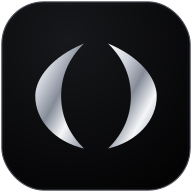
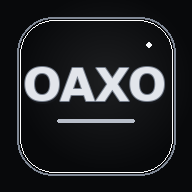
Add files via upload

diff --git a/index.html b/index.html
@@ -118,72 +118,12 @@
     ::selection{background:#bfc5cf;color:#111318}
     @media(prefers-reduced-motion:reduce){*,*:before,*:after{transition:none!important;scroll-behavior:auto!important}}
 
-  
-    /* OAXO brand system v3 — aligned to the supplied black/silver brand board */
-    :root{--bg:#050505;--card:#0d0e10;--text:#f4f5f7;--muted:#a6aab2;--line:#292b30;--brand:#c8ccd4;--brand2:#1b1d22;--silver:#bec2ca;--shadow:0 14px 36px #000b,inset 0 1px 0 #ffffff08}
-    body{background:radial-gradient(ellipse at 50% -20%,#282a2e 0%,#101113 35%,transparent 65%),#050505;background-attachment:fixed}
-    .oaxo-emblem{background:linear-gradient(145deg,#f7f8fa 0%,#c4c8d0 28%,#7d838e 52%,#eef0f4 74%,#9da3ad 100%)!important;border:1px solid #f1f2f4!important;box-shadow:0 0 0 1px #aeb3bc55,0 0 24px #cbd0dc18,inset 0 1px 0 #fff!important;border-radius:50%!important}
-    .oaxo-symbol{width:76%;height:76%;display:block;overflow:visible;fill:#111317;filter:drop-shadow(0 1px 1px #fff9)}
-    .auth-logo.oaxo-emblem{width:100px;height:100px;border-radius:28px!important;background:linear-gradient(145deg,#08090b,#111317)!important;border:1px solid #4b4f58!important;box-shadow:0 0 0 1px #ffffff08,0 0 35px #cbd0dc12,inset 0 1px 0 #ffffff0c!important}
-    .auth-logo .oaxo-symbol{fill:url(#oaxoSilver);filter:drop-shadow(0 0 5px #d9dce355)}
-    .auth-logo .oaxo-symbol path,.logo .oaxo-symbol path{fill:#17191d;stroke:#dfe2e8;stroke-width:1.1}
-    .logo.oaxo-emblem{width:49px;height:49px;border-radius:15px!important;background:linear-gradient(145deg,#111317,#050505)!important;border-color:#484c55!important}
-    .logo .oaxo-symbol{fill:#191b20}
-    .home-hero{background:radial-gradient(ellipse at 86% 18%,#c7ccd51c 0,transparent 42%),linear-gradient(115deg,#08090b 0%,#15171b 55%,#24272d 100%)!important;border:1px solid #555b66!important;color:#f5f6f8!important;box-shadow:inset 0 1px 0 #ffffff0c,0 16px 38px #0008!important}
-    .home-hero .home-eyebrow{color:#c6cbd4!important}.home-live-dot{background:#d9dde4!important;box-shadow:0 0 0 4px #d9dde41c!important}.home-hero h2 em{color:#d9dde4!important}.home-hero p{color:#b8bdc6!important}
-    .home-create,.btn.primary{background:linear-gradient(145deg,#e7e9ed,#aeb4bf 55%,#d9dce2)!important;color:#111317!important;border:1px solid #f4f5f7!important;box-shadow:0 5px 20px #d9dde411,inset 0 1px #fff!important}
-    .home-hero-orbit,.home-hero-orbit:before{border-color:#d7dbe31c!important;box-shadow:0 0 0 25px #d7dbe308,0 0 0 52px #d7dbe305!important}.home-hero-orbit:after{background:radial-gradient(circle at 35% 30%,#d7dbe322,transparent 65%)!important}.home-hero-orbit span{color:#d9dde4!important;text-shadow:0 0 32px #d9dde433!important}
-    .home-module{background:linear-gradient(145deg,#111317,#0b0c0e)!important;border-color:#30343b!important;box-shadow:inset 0 1px #ffffff06,0 7px 18px #0005!important}.home-module-icon,.home-module:nth-child(1) .home-module-icon,.home-module:nth-child(2) .home-module-icon,.home-module:nth-child(3) .home-module-icon{background:linear-gradient(145deg,#292d34,#17191e)!important;color:#d4d8df!important;border:1px solid #414650!important}
-    .home-feed-switch button.active,.tab.active{background:linear-gradient(145deg,#2b2e35,#191b20)!important;color:#f2f3f5!important;border-color:#aeb4bf!important}.card{background:linear-gradient(145deg,#111317,#0b0c0e)!important;border-color:#2d3037!important}
-    .mobile-social-nav{background:#090a0c!important;border-top-color:#333740!important}.mobile-social-nav button.active,.mobile-social-nav button.active small{color:#e0e3e9!important}
-    .auth-card{background:linear-gradient(145deg,#111317,#08090b)!important;border-color:#414650!important;box-shadow:0 24px 70px #000b,inset 0 1px #ffffff0a!important}
-    @media(prefers-reduced-motion:reduce){*{transition:none!important;animation:none!important}}
-
-
-    /* OAXO v4 — tela de inicialização inspirada na referência oficial */
-    #oaxoSplash{position:fixed;inset:0;z-index:99999;display:flex;align-items:center;justify-content:center;overflow:hidden;background:radial-gradient(ellipse at 50% 42%,#191a1d 0%,#0b0b0d 38%,#030304 78%);color:#f3f4f6;opacity:1;visibility:visible;transition:opacity .65s ease,visibility .65s ease}
-    #oaxoSplash::before{content:"";position:absolute;inset:0;background:linear-gradient(135deg,transparent 35%,#ffffff04 50%,transparent 65%);pointer-events:none}
-    #oaxoSplash::after{content:"";position:absolute;left:50%;bottom:-35vh;width:min(110vw,800px);height:45vh;transform:translateX(-50%) perspective(500px) rotateX(66deg);border-top:1px solid #cbd0da20;background:repeating-linear-gradient(0deg,transparent 0 34px,#cbd0da08 35px 36px),linear-gradient(180deg,#cbd0da08,transparent);mask-image:linear-gradient(to bottom,#000,transparent);pointer-events:none}
-    #oaxoSplash.is-hidden{opacity:0;visibility:hidden;pointer-events:none}
-    .oaxo-splash-content{position:relative;z-index:1;display:flex;align-items:center;flex-direction:column;text-align:center;width:min(88vw,460px);transform:translateY(-2vh);animation:oaxoSplashRise 1s cubic-bezier(.2,.75,.25,1) both}
-    .oaxo-splash-symbol{width:clamp(88px,24vw,132px);height:clamp(88px,24vw,132px);filter:drop-shadow(0 0 15px #dce2f022);animation:oaxoSymbolGlow 3s ease-in-out infinite}
-    .oaxo-splash-symbol path{fill:url(#oaxoSplashSilver)}
-    .oaxo-splash-wordmark{font-size:clamp(43px,12vw,66px);font-weight:300;letter-spacing:.19em;margin:19px 0 0  .19em;line-height:1.1;background:linear-gradient(180deg,#fff 0%,#d9dce2 42%,#8c929e 54%,#f5f6f8 74%,#bfc4cd 100%);-webkit-background-clip:text;background-clip:text;color:transparent;text-shadow:0 0 30px #dfe5f00b}
-    .oaxo-splash-tagline{font-size:clamp(9px,2.4vw,12px);font-weight:500;letter-spacing:.42em;color:#d0d3da;margin:18px 0 0 .42em;text-transform:uppercase;white-space:nowrap}
-    .oaxo-splash-progress{width:112px;height:2px;margin-top:46px;border-radius:99px;background:#ffffff18;overflow:hidden}
-    .oaxo-splash-progress span{display:block;width:38%;height:100%;border-radius:99px;background:linear-gradient(90deg,#7e8490,#fff,#aeb4bf);box-shadow:0 0 12px #e3e8f477;animation:oaxoProgress 1.55s ease-in-out infinite}
-    .oaxo-splash-caption{margin-top:13px;color:#777d88;font-size:9px;letter-spacing:.24em;text-transform:uppercase}
-    @keyframes oaxoSplashRise{from{opacity:0;transform:translateY(12px)}to{opacity:1;transform:translateY(-2vh)}}
-    @keyframes oaxoSymbolGlow{0%,100%{filter:drop-shadow(0 0 10px #dce2f018)}50%{filter:drop-shadow(0 0 22px #dce2f044)}}
-    @keyframes oaxoProgress{0%{transform:translateX(-120%)}100%{transform:translateX(380%)}}
-    @media(prefers-reduced-motion:reduce){#oaxoSplash,.oaxo-splash-content,.oaxo-splash-symbol,.oaxo-splash-progress span{animation:none!important;transition:none!important}}
-  
-/* OAXO v5: símbolo oficial em prata sobre preto, alinhado à referência fornecida */
-.logo.oaxo-emblem,.auth-logo.oaxo-emblem{background:linear-gradient(145deg,#141518,#030304)!important;border:1px solid #484c55!important;box-shadow:0 0 0 1px #ffffff08,inset 0 1px 0 #ffffff12,0 0 24px #d9dce315!important;border-radius:28%!important;}
-.oaxo-symbol{width:82%!important;height:82%!important;overflow:visible!important;filter:drop-shadow(0 0 3px #e7e9ef35)!important;}
-.oaxo-symbol path{fill:url(#oaxoSilver)!important;stroke:none!important;}
-.auth-logo.oaxo-emblem .oaxo-symbol{width:84%!important;height:84%!important;}
-</style>
+  </style>
 </head>
 <body>
-<div id="oaxoSplash" role="status" aria-label="Carregando OAXO">
-  <div class="oaxo-splash-content">
-    <svg class="oaxo-splash-symbol" viewBox="0 0 100 100" aria-hidden="true">
-      <defs><linearGradient id="oaxoSplashSilver" x1="0" y1="0" x2="0.85" y2="1"><stop offset="0%" stop-color="#ffffff"/><stop offset="35%" stop-color="#d9dce2"/><stop offset="55%" stop-color="#8f96a2"/><stop offset="75%" stop-color="#f4f5f7"/><stop offset="100%" stop-color="#aeb4bf"/></linearGradient></defs>
-      <path d="M43 13 C20 24 11 39 11 50 C11 65 23 80 43 87 C31 72 27 62 27 50 C27 38 32 26 43 13Z"/>
-      <path d="M57 13 C80 24 89 39 89 50 C89 65 77 80 57 87 C69 72 73 62 73 50 C73 38 68 26 57 13Z"/>
-    </svg>
-    <div class="oaxo-splash-wordmark">OAXO</div>
-    <div class="oaxo-splash-tagline">Sua vida, em evolução.</div>
-    <div class="oaxo-splash-progress" aria-hidden="true"><span></span></div>
-    <div class="oaxo-splash-caption">Preparando sua evolução</div>
-  </div>
-</div>
-<script> (function(){var splash=document.getElementById('oaxoSplash');function hideSplash(){if(!splash)return;window.setTimeout(function(){splash.classList.add('is-hidden');window.setTimeout(function(){if(splash&&splash.parentNode)splash.parentNode.removeChild(splash)},750)},1500)}if(document.readyState==='complete'){hideSplash()}else{window.addEventListener('load',hideSplash,{once:true});window.setTimeout(hideSplash,4500)}})(); </script>
-
 <section id="authGate" class="auth-gate checking" aria-label="Acesso ao OAXO">
   <div class="auth-card">
-    <div class="auth-logo oaxo-emblem" aria-label="Símbolo OAXO"><svg class="oaxo-symbol" viewBox="0 0 100 100" aria-hidden="true"><path d="M43 13 C20 24 11 39 11 50 C11 65 23 80 43 87 C31 72 27 62 27 50 C27 38 32 26 43 13Z"/><path d="M57 13 C80 24 89 39 89 50 C89 65 77 80 57 87 C69 72 73 62 73 50 C73 38 68 26 57 13Z"/></svg></div>
+    <div class="auth-logo oaxo-emblem" aria-label="OAXO">O<span>A</span>X<span>O</span></div>
     <h2>Bem-vindo ao OAXO</h2>
     <p class="muted">Entre com sua conta Google para acessar suas finanças, alimentação e treinos.</p>
     <div class="notice"><strong>Seus registros são sincronizados com sua conta.</strong><br>Os lançamentos são guardados neste aparelho e enviados ao Firebase para que você possa acessar em outros dispositivos. As regras de segurança restringem o acesso à sua conta Google.</div>
@@ -206,7 +146,7 @@
   </div>
 </div>
 <div class="wrap">
-  <header class="top"><div class="brand"><div class="logo oaxo-emblem" aria-label="Símbolo OAXO"><svg class="oaxo-symbol" viewBox="0 0 100 100" aria-hidden="true"><path d="M43 13 C20 24 11 39 11 50 C11 65 23 80 43 87 C31 72 27 62 27 50 C27 38 32 26 43 13Z"/><path d="M57 13 C80 24 89 39 89 50 C89 65 77 80 57 87 C69 72 73 62 73 50 C73 38 68 26 57 13Z"/></svg></div><div><h1>OAXO</h1><p>Sua vida, em evolução.</p></div></div><div class="account-actions"><span id="accountLabel" class="account-label"></span><button class="btn smallbtn hidden" id="logoutBtn" type="button">Sair</button><button class="btn" id="themeBtn" aria-label="Alternar tema">☾ Tema</button></div></header>
+  <header class="top"><div class="brand"><div class="logo oaxo-emblem" aria-label="OAXO">O<span>A</span>X<span>O</span></div><div><h1>OAXO</h1><p>Sua vida, em evolução.</p></div></div><div class="account-actions"><span id="accountLabel" class="account-label"></span><button class="btn smallbtn hidden" id="logoutBtn" type="button">Sair</button><button class="btn" id="themeBtn" aria-label="Alternar tema">☾ Tema</button></div></header>
   <nav class="tabs social-tabs" aria-label="Navegação principal"><button class="tab active" data-tab="home"><span class="nav-icon">⌂</span>Início</button><button class="tab" data-tab="explore"><span class="nav-icon">⌕</span>Explorar</button><button class="tab" data-tab="compose"><span class="nav-icon nav-plus">＋</span>Publicar</button><button class="tab" data-tab="evolution"><span class="nav-icon">✦</span>Evolução</button><button class="tab" data-tab="profile"><span class="nav-icon">♙</span>Perfil</button></nav>
   <main id="app"></main>
   <nav class="mobile-social-nav" aria-label="Navegação principal"><button data-tab="home" aria-label="Início"><span class="nav-icon">⌂</span><small>Início</small></button><button data-tab="explore" aria-label="Explorar"><span class="nav-icon">⌕</span><small>Explorar</small></button><button data-tab="compose" aria-label="Publicar"><span class="nav-icon nav-plus">＋</span><small>Publicar</small></button><button data-tab="evolution" aria-label="Evolução"><span class="nav-icon">✦</span><small>Evolução</small></button><button data-tab="profile" aria-label="Perfil"><span class="nav-icon">♙</span><small>Perfil</small></button></nav>

diff --git a/sw.js b/sw.js
@@ -1,4 +1,4 @@
-const CACHE_NAME = 'oaxo-v5-splash-screen';
+const CACHE_NAME = 'oaxo-v2-future-silver';
 const APP_PREFIX = 'equilibrio-';
 const CORE_FILES = ['./', './index.html', './app.js', './manifest.json', './icon-192.png', './icon-512.png'];
 
